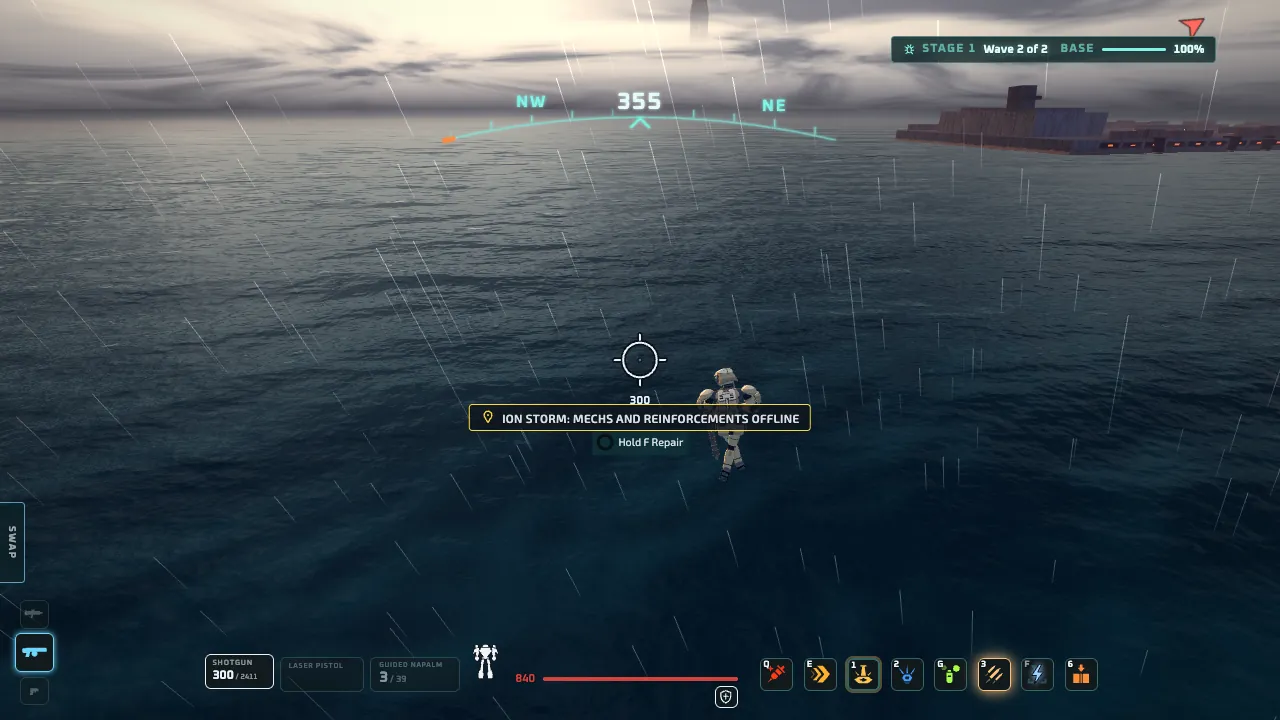
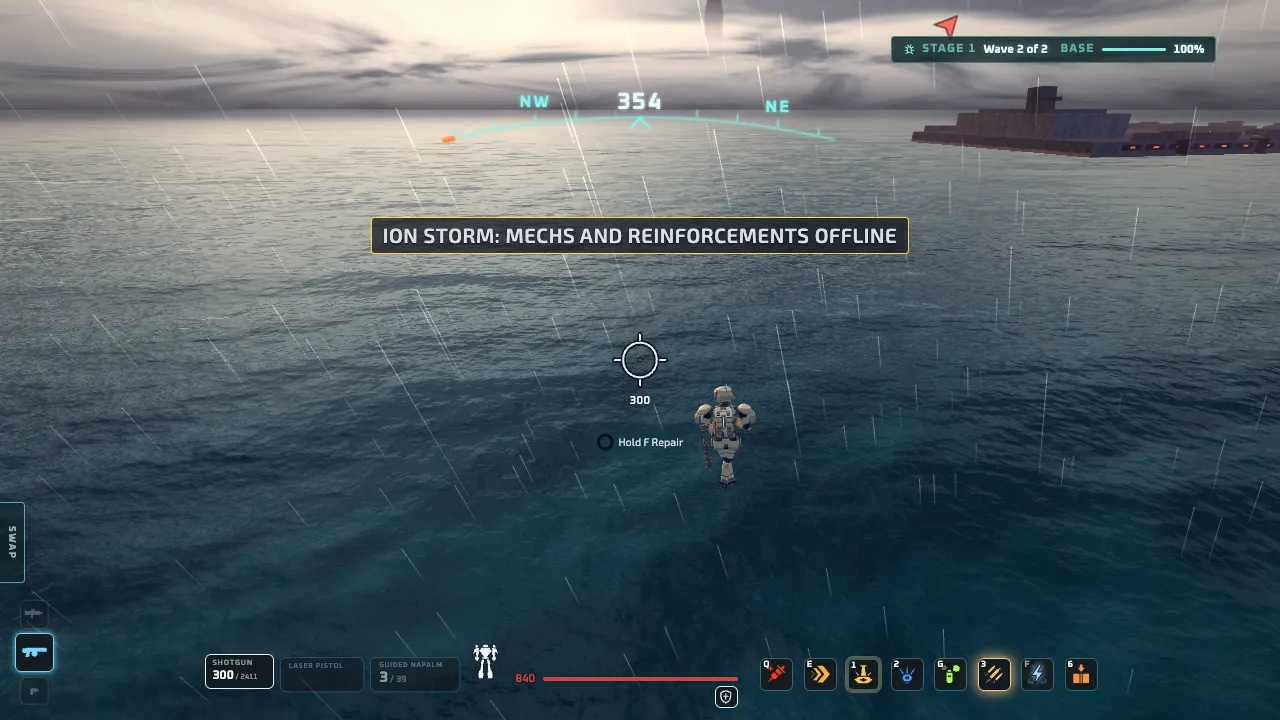
review page v251: Steel Tide: to review

diff --git a/d/steel-tide-clips-bb00109a/index.html b/d/steel-tide-clips-bb00109a/index.html
@@ -4,15 +4,15 @@
 <style>body{margin:0;background:#0d1117;color:#e6edf3;font:16px/1.5 -apple-system,system-ui,sans-serif}main{max-width:900px;margin:0 auto;padding:16px}h1{font-size:20px;margin:8px 0 4px}h2{font-size:17px;margin:34px 0 6px}p{margin:4px 0 10px;color:#9da7b3;font-size:14px}video,img{width:100%;height:auto;background:#000;border-radius:6px;display:block;margin-top:6px}a.b{display:inline-block;margin:8px 8px 0 0;padding:10px 14px;border:1px solid #3d444d;border-radius:6px;color:#e6edf3;text-decoration:none;font-size:14px}.t{font-size:12px;font-weight:400;color:#0d1117;background:#9da7b3;border-radius:10px;padding:2px 8px;margin-left:6px;vertical-align:middle}p.d{color:#7cb7ff;font-size:13px;margin:0 0 6px}nav small{color:#9da7b3;margin-left:6px}p b{color:#e6edf3}nav a{display:block;padding:7px 0;color:#7cb7ff;text-decoration:none;font-size:14px;border-bottom:1px solid #21262d}a.z{display:block;cursor:zoom-in}p.h{font-size:12px;margin:2px 0 8px}#lb{position:fixed;inset:0;background:#000;z-index:9;overflow:auto;display:none;cursor:zoom-in}#lb.on{display:block}#lb img{width:100%;height:100%;object-fit:contain;margin:0;border-radius:0;background:#000}#lb.big{cursor:zoom-out}#lb.big img{width:auto;height:auto;max-width:none;object-fit:none}#lbx{position:fixed;top:10px;right:14px;z-index:10;display:none;font:600 15px system-ui;color:#fff;background:#21262d;border:1px solid #3d444d;border-radius:6px;padding:8px 12px;cursor:pointer}#lb.on+#lbx{display:block}</style></head>
 <body><style>.tabs{display:flex;gap:8px;padding:12px 16px;border-bottom:1px solid #30363d;background:#151b23;flex-wrap:wrap}.tabs a{padding:8px 14px;border:1px solid #444c56;border-radius:6px;color:#b4bec9;text-decoration:none;font-size:14px;font-weight:600}.tabs a.on{background:#1c232d;color:#e6edf3;border-color:#7cb7ff}</style><div class="tabs"><a class="on" href="./">To review</a><a href="guide.html">Game dev guide</a></div><main>
 <h1>Steel Tide: to review</h1>
-<p>Version 250, 11-22 10:49 AM. New: the storm sign, and stills of five things that went live overnight (hand cannon blast, blink, guard drones, enemy modifiers, storm exit). Blowing sand round 4 clips are at the top. Newest first. Total 32.8 MB.</p>
-<nav><a href="#storm-sign">Ion storm sign: mechs and reinforcements offline <small>11-22 12:10 PM</small></a><a href="#sand-wind-real-walking">Blowing sand, redone: walking on foot <small>11-22 10:20 AM</small></a><a href="#sand-wind-real-orbit">Blowing sand, redone: full turn around the mech <small>11-22 10:20 AM</small></a><a href="#sand-wind-real-low">Blowing sand, redone: low view down the wind <small>11-22 10:20 AM</small></a><a href="#desert-subtle-roll">Desert floor: a subtle rolling curve <small>11-22 10:20 AM</small></a><a href="#results-screen-mockups">NEEDS YOUR OK: results screen C, revision 5 <small>11-22 10:20 AM</small></a><a href="#hangar-forge">The Forge: a crafting station in the hangar <small>11-22 10:20 AM</small></a><a href="#convoy-freight-train">Convoy escort: the freight train replaces the black stand-in <small>11-22 9:10 AM</small></a><a href="#enemy-modifiers">Enemy modifiers: a barrage attack <small>11-22 8:05 AM</small></a><a href="#storm-exit-wave-runner">Storm exit: thrown beacon to the Wave Runner <small>11-22 7:10 AM</small></a><a href="#vehicle-guard-drones">Guard drones on the Land Rover and Wave Runner <small>11-22 6:45 AM</small></a><a href="#hand-cannon-blast">Hand cannon impact blast <small>11-22 5:40 AM</small></a><a href="#pilot-blink">Pilot blink dash <small>11-22 5:30 AM</small></a><a href="#petrel-refine-r4">Petrel ship: polish round 4 (rounder, smoother) <small>11-22 4:25 AM</small></a><a href="#lift-passing-lights">Elevator lights light the Petrel as it rises <small>11-22 12:40 AM</small></a><a href="#jet-flames-visor">Mech jet flames match your visor color <small>11-22 12:35 AM</small></a><a href="#weapon-icons-round-3">Weapon icons: style A in the game <small>11-21 10:10 PM</small></a><a href="#pilot-gun-clipping">Pilot: carried gun and arms no longer cut into the body (before / after) <small>11-21 10:05 PM</small></a><a href="#hangar-one-petrel">Only your Petrel in the hangar <small>11-21 9:40 PM</small></a><a href="#navy-shell-arc">Navy shells fly one smooth arc <small>11-21 8:37 PM</small></a><a href="#hangar-mech-feet">Hangar mech stands on its cradle <small>11-21 8:37 PM</small></a><a href="#dock-scene-ease">Docking: camera, Petrel glide and lift light <small>11-21 8:37 PM</small></a><a href="#desert-r20-m337-sky">Desert: our sand under yesterday&#x27;s sky <small>11-21 8:37 PM</small></a><a href="#extraction-outro-live">Extraction ending, full outro (live build) <small>11-21 6:35 PM</small></a><a href="#no-black-preload">Mission start: no black screen before the flight <small>11-21 5:05 PM</small></a><a href="#sand-impacts">Desert: shots, landings and footsteps throw up sand <small>11-21 4:55 PM</small></a><a href="#ocean-navy">Ocean navy: fewer, heavier ships; lobbed shells you can see; hull explosions; torpedo wakes <small>11-21 4:47 PM</small></a><a href="#sand-repo-demo">The open-source dune scene we are porting, as it looks in its own demo <small>11-21 4:42 PM</small></a><a href="#roll-chevrons-removed">Old roll and floor dashes removed <small>11-21 2:53 PM</small></a><a href="#unit-ground-shadows">Unit ground shadows back on <small>11-21 1:02 PM</small></a><a href="#pilot-walk-sway">Pilot walk: half the side-to-side sway (before / after) <small>11-21 12:44 PM</small></a><a href="#boss-shading-which-part">Your 8:00 PM report: which part of the boss looked wrong? <small>11-20 10:51 PM</small></a><a href="#new-mech-3d-r2">New mech: first 3D model from your sheet <small>11-19 11:21 PM</small></a><a href="#tactician-r2-s302-clean">Tactician pilot: your pick, smudges cleaned (ready to wire) <small>11-19 10:24 PM</small></a><a href="#vanguard-r2-s302">Vanguard pilot: your pick, six fingers fixed (ready to wire) <small>11-19 10:24 PM</small></a><a href="#cradle-drop-launch-r4">NEEDS YOUR PICK: the drop cannon&#x27;s size on the Cradle (three sizes), with its back hidden and navy colour <small>11-18 7:43 PM</small></a><a href="#horde-pilot-zoom">NEEDS YOUR CALL: island Horde, camera zooms in when you are on foot <small>11-17 1:30 PM</small></a></nav>
-<section id="storm-sign"><h2>Ion storm sign: mechs and reinforcements offline <span class="t">in review</span></h2>
-<p class="d">Updated 11-22 12:10 PM ET &middot; captured from lane build 413d40f337</p>
-<p><b>What changed:</b> New: your approved line shows on the existing notice plate from the moment the storm takes the mech until extraction ends.</p>
-<p><b>Where to look:</b> Centre of the frame, the yellow-edged plate just under the reticle. It sits across the pilot&#x27;s shoulders, above the Hold F Repair prompt.</p>
+<p>Version 251, 11-22 11:44 AM. New: the storm sign moved to the top of the screen. Live now (M441): blowing sand round 4 with puffs off, and the convoy train. Newest first. Total 32.8 MB.</p>
+<nav><a href="#storm-sign">Ion storm sign: mechs and reinforcements offline <small>11-22 2:40 PM</small></a><a href="#sand-wind-real-walking">Blowing sand, redone: walking on foot <small>11-22 11:44 AM</small></a><a href="#sand-wind-real-orbit">Blowing sand, redone: full turn around the mech <small>11-22 11:44 AM</small></a><a href="#sand-wind-real-low">Blowing sand, redone: low view down the wind <small>11-22 11:44 AM</small></a><a href="#convoy-freight-train">Convoy escort: the freight train replaces the black stand-in <small>11-22 11:44 AM</small></a><a href="#desert-subtle-roll">Desert floor: a subtle rolling curve <small>11-22 10:20 AM</small></a><a href="#results-screen-mockups">NEEDS YOUR OK: results screen C, revision 5 <small>11-22 10:20 AM</small></a><a href="#hangar-forge">The Forge: a crafting station in the hangar <small>11-22 10:20 AM</small></a><a href="#enemy-modifiers">Enemy modifiers: a barrage attack <small>11-22 8:05 AM</small></a><a href="#storm-exit-wave-runner">Storm exit: thrown beacon to the Wave Runner <small>11-22 7:10 AM</small></a><a href="#vehicle-guard-drones">Guard drones on the Land Rover and Wave Runner <small>11-22 6:45 AM</small></a><a href="#hand-cannon-blast">Hand cannon impact blast <small>11-22 5:40 AM</small></a><a href="#pilot-blink">Pilot blink dash <small>11-22 5:30 AM</small></a><a href="#petrel-refine-r4">Petrel ship: polish round 4 (rounder, smoother) <small>11-22 4:25 AM</small></a><a href="#lift-passing-lights">Elevator lights light the Petrel as it rises <small>11-22 12:40 AM</small></a><a href="#jet-flames-visor">Mech jet flames match your visor color <small>11-22 12:35 AM</small></a><a href="#weapon-icons-round-3">Weapon icons: style A in the game <small>11-21 10:10 PM</small></a><a href="#pilot-gun-clipping">Pilot: carried gun and arms no longer cut into the body (before / after) <small>11-21 10:05 PM</small></a><a href="#hangar-one-petrel">Only your Petrel in the hangar <small>11-21 9:40 PM</small></a><a href="#navy-shell-arc">Navy shells fly one smooth arc <small>11-21 8:37 PM</small></a><a href="#hangar-mech-feet">Hangar mech stands on its cradle <small>11-21 8:37 PM</small></a><a href="#dock-scene-ease">Docking: camera, Petrel glide and lift light <small>11-21 8:37 PM</small></a><a href="#desert-r20-m337-sky">Desert: our sand under yesterday&#x27;s sky <small>11-21 8:37 PM</small></a><a href="#extraction-outro-live">Extraction ending, full outro (live build) <small>11-21 6:35 PM</small></a><a href="#no-black-preload">Mission start: no black screen before the flight <small>11-21 5:05 PM</small></a><a href="#sand-impacts">Desert: shots, landings and footsteps throw up sand <small>11-21 4:55 PM</small></a><a href="#ocean-navy">Ocean navy: fewer, heavier ships; lobbed shells you can see; hull explosions; torpedo wakes <small>11-21 4:47 PM</small></a><a href="#sand-repo-demo">The open-source dune scene we are porting, as it looks in its own demo <small>11-21 4:42 PM</small></a><a href="#roll-chevrons-removed">Old roll and floor dashes removed <small>11-21 2:53 PM</small></a><a href="#unit-ground-shadows">Unit ground shadows back on <small>11-21 1:02 PM</small></a><a href="#pilot-walk-sway">Pilot walk: half the side-to-side sway (before / after) <small>11-21 12:44 PM</small></a><a href="#boss-shading-which-part">Your 8:00 PM report: which part of the boss looked wrong? <small>11-20 10:51 PM</small></a><a href="#new-mech-3d-r2">New mech: first 3D model from your sheet <small>11-19 11:21 PM</small></a><a href="#tactician-r2-s302-clean">Tactician pilot: your pick, smudges cleaned (ready to wire) <small>11-19 10:24 PM</small></a><a href="#vanguard-r2-s302">Vanguard pilot: your pick, six fingers fixed (ready to wire) <small>11-19 10:24 PM</small></a><a href="#cradle-drop-launch-r4">NEEDS YOUR PICK: the drop cannon&#x27;s size on the Cradle (three sizes), with its back hidden and navy colour <small>11-18 7:43 PM</small></a><a href="#horde-pilot-zoom">NEEDS YOUR CALL: island Horde, camera zooms in when you are on foot <small>11-17 1:30 PM</small></a></nav>
+<section id="storm-sign"><h2>Ion storm sign: mechs and reinforcements offline <span class="t">in review (moved; not live)</span></h2>
+<p class="d">Updated 11-22 2:40 PM ET &middot; captured from lane build de2961aef5</p>
+<p><b>What changed:</b> Moved after your note: the sign now sits at the top centre under the compass, on the existing objective banner, instead of mid-screen over the pilot. It also shows from the moment reinforcements are first refused.</p>
+<p><b>Where to look:</b> Top third of the frame, under the compass heading. Check it against the reticle, the pilot and the Hold F Repair prompt below it.</p>
 <a class="z" href="storm-sign-1-full.webp"><img loading="lazy" src="storm-sign-1.webp" alt="Ion storm sign: mechs and reinforcements offline"></a><p class="h">Click the image for full screen, click again for full size.</p></section>
-<section id="sand-wind-real-walking"><h2>Blowing sand, redone: walking on foot <span class="t">in review</span></h2>
-<p class="d">Updated 11-22 10:20 AM ET &middot; captured from lane build b2955101a2 (round 4, Viewer export)</p>
+<section id="sand-wind-real-walking"><h2>Blowing sand, redone: walking on foot <span class="t">live M441 (puffs off by default)</span></h2>
+<p class="d">Updated 11-22 11:44 AM ET &middot; captured from lane build b2955101a2 (round 4, Viewer export)</p>
 <p><b>What changed:</b> Round 4: the sand streamers were too faint, so they now keep running between gusts, are paler than the ground with a soft shade under them, and gusts last longer.</p>
 <p><b>Where to look:</b> Clip: streamers across the slope around the pilot the whole way, strongest from 0 to 4 s. Stills: BEFORE on top, AFTER below, on foot and at the mech camera, at gust peak, mid gust and lull.</p>
 <a class="z" href="sand-wind-real-walking-1-full.webp"><img loading="lazy" src="sand-wind-real-walking-1.webp" alt="Blowing sand, redone: walking on foot"></a><p class="h">Click the image for full screen, click again for full size.</p>
@@ -20,20 +20,28 @@
 <video controls playsinline muted preload="none" poster="sand-wind-real-walking-1.webp" data-fb="sand-wind-real-walking"><source src="sand-wind-real-walking.mp4" type="video/mp4"></video>
 <div class="fb" data-id="sand-wind-real-walking" data-title="Blowing sand, redone: walking on foot"><p class="h">Pause the video at any moment to write a note for that second.</p><div class="fbbox" hidden><b class="fbt"></b><textarea rows="3" placeholder="Your feedback at this moment"></textarea><button class="fbsave">Save and keep playing</button><button class="fbcancel">Cancel</button></div><ol class="fblist"></ol><button class="fbexp">Export feedback</button><div class="fbout" hidden><textarea rows="8" readonly></textarea><button class="fbcopy">Copy</button><span class="fbok"></span></div></div>
 <a class="b" href="sand-wind-real-walking.mp4">Open the video on its own (1.3 MB)</a></section>
-<section id="sand-wind-real-orbit"><h2>Blowing sand, redone: full turn around the mech <span class="t">in review</span></h2>
-<p class="d">Updated 11-22 10:20 AM ET &middot; captured from lane build b2955101a2 (round 4, Viewer export)</p>
+<section id="sand-wind-real-orbit"><h2>Blowing sand, redone: full turn around the mech <span class="t">live M441 (puffs off by default)</span></h2>
+<p class="d">Updated 11-22 11:44 AM ET &middot; captured from lane build b2955101a2 (round 4, Viewer export)</p>
 <p><b>What changed:</b> The camera makes one full turn around the mech and never turns back; the sand stays fixed to the ground instead of moving with the camera.</p>
 <p><b>Where to look:</b> Watch the pale streamers and the spray off the dune crest (5 to 9 s): they stay in place on the ground while the camera turns.</p>
 <video controls playsinline muted preload="none" data-fb="sand-wind-real-orbit"><source src="sand-wind-real-orbit.mp4" type="video/mp4"></video>
 <div class="fb" data-id="sand-wind-real-orbit" data-title="Blowing sand, redone: full turn around the mech"><p class="h">Pause the video at any moment to write a note for that second.</p><div class="fbbox" hidden><b class="fbt"></b><textarea rows="3" placeholder="Your feedback at this moment"></textarea><button class="fbsave">Save and keep playing</button><button class="fbcancel">Cancel</button></div><ol class="fblist"></ol><button class="fbexp">Export feedback</button><div class="fbout" hidden><textarea rows="8" readonly></textarea><button class="fbcopy">Copy</button><span class="fbok"></span></div></div>
 <a class="b" href="sand-wind-real-orbit.mp4">Open the video on its own (1.8 MB)</a></section>
-<section id="sand-wind-real-low"><h2>Blowing sand, redone: low view down the wind <span class="t">in review</span></h2>
-<p class="d">Updated 11-22 10:20 AM ET &middot; captured from lane build b2955101a2 (round 4, Viewer export)</p>
+<section id="sand-wind-real-low"><h2>Blowing sand, redone: low view down the wind <span class="t">live M441 (puffs off by default)</span></h2>
+<p class="d">Updated 11-22 11:44 AM ET &middot; captured from lane build b2955101a2 (round 4, Viewer export)</p>
 <p><b>What changed:</b> New low shot looking along the wind; strands now snake and vary in length so they do not read as straight lines toward one point.</p>
 <p><b>Where to look:</b> The ground in the lower half of the frame and the pale spray line along the ridge behind the pilot.</p>
 <video controls playsinline muted preload="none" data-fb="sand-wind-real-low"><source src="sand-wind-real-low.mp4" type="video/mp4"></video>
 <div class="fb" data-id="sand-wind-real-low" data-title="Blowing sand, redone: low view down the wind"><p class="h">Pause the video at any moment to write a note for that second.</p><div class="fbbox" hidden><b class="fbt"></b><textarea rows="3" placeholder="Your feedback at this moment"></textarea><button class="fbsave">Save and keep playing</button><button class="fbcancel">Cancel</button></div><ol class="fblist"></ol><button class="fbexp">Export feedback</button><div class="fbout" hidden><textarea rows="8" readonly></textarea><button class="fbcopy">Copy</button><span class="fbok"></span></div></div>
 <a class="b" href="sand-wind-real-low.mp4">Open the video on its own (0.7 MB)</a></section>
+<section id="convoy-freight-train"><h2>Convoy escort: the freight train replaces the black stand-in <span class="t">live M441</span></h2>
+<p class="d">Updated 11-22 11:44 AM ET &middot; captured from lane builds 80367e890d and 9515d3f0a0</p>
+<p><b>What changed:</b> The convoy is now a tractor pulling three tank cars instead of a black box. The last still shows the health bar lowered to sit over the cab (that part is in review, not live yet).</p>
+<p><b>Where to look:</b> First still BEFORE (black box), second AFTER (same camera). Third: size beside the mech. Fourth: the health bar just above the tractor cab.</p>
+<a class="z" href="convoy-freight-train-1-full.webp"><img loading="lazy" src="convoy-freight-train-1.webp" alt="Convoy escort: the freight train replaces the black stand-in"></a><p class="h">Click the image for full screen, click again for full size.</p>
+<a class="z" href="convoy-freight-train-2-full.webp"><img loading="lazy" src="convoy-freight-train-2.webp" alt="Convoy escort: the freight train replaces the black stand-in"></a><p class="h">Click the image for full screen, click again for full size.</p>
+<a class="z" href="convoy-freight-train-3-full.webp"><img loading="lazy" src="convoy-freight-train-3.webp" alt="Convoy escort: the freight train replaces the black stand-in"></a><p class="h">Click the image for full screen, click again for full size.</p>
+<a class="z" href="convoy-freight-train-4-full.webp"><img loading="lazy" src="convoy-freight-train-4.webp" alt="Convoy escort: the freight train replaces the black stand-in"></a><p class="h">Click the image for full screen, click again for full size.</p></section>
 <section id="desert-subtle-roll"><h2>Desert floor: a subtle rolling curve <span class="t">live M433</span></h2>
 <p class="d">Updated 11-22 10:20 AM ET &middot; captured from lane build 7797815e19</p>
 <p><b>What changed:</b> Not good enough yet. Round 1 failed review (the curve could not be seen at pilot height). Round 2 made the roll about three times taller, but in its own pictures the ground still reads nearly flat, so it is not shipping. The flat building pads and the no-steep-slopes limit cap how tall the roll can be; the next pass has to make the relief read through light and shadow at pilot height.</p>
@@ -53,14 +61,6 @@
 <a class="z" href="hangar-forge-2-full.webp"><img loading="lazy" src="hangar-forge-2.webp" alt="The Forge: a crafting station in the hangar"></a><p class="h">Click the image for full screen, click again for full size.</p>
 <a class="z" href="hangar-forge-3-full.webp"><img loading="lazy" src="hangar-forge-3.webp" alt="The Forge: a crafting station in the hangar"></a><p class="h">Click the image for full screen, click again for full size.</p>
 <a class="z" href="hangar-forge-4-full.webp"><img loading="lazy" src="hangar-forge-4.webp" alt="The Forge: a crafting station in the hangar"></a><p class="h">Click the image for full screen, click again for full size.</p></section>
-<section id="convoy-freight-train"><h2>Convoy escort: the freight train replaces the black stand-in <span class="t">live M439</span></h2>
-<p class="d">Updated 11-22 9:10 AM ET &middot; captured from lane builds 80367e890d and 9515d3f0a0</p>
-<p><b>What changed:</b> The convoy is now a tractor pulling three tank cars instead of a black box. The last still shows the health bar lowered to sit over the cab (that part is in review, not live yet).</p>
-<p><b>Where to look:</b> First still BEFORE (black box), second AFTER (same camera). Third: size beside the mech. Fourth: the health bar just above the tractor cab.</p>
-<a class="z" href="convoy-freight-train-1-full.webp"><img loading="lazy" src="convoy-freight-train-1.webp" alt="Convoy escort: the freight train replaces the black stand-in"></a><p class="h">Click the image for full screen, click again for full size.</p>
-<a class="z" href="convoy-freight-train-2-full.webp"><img loading="lazy" src="convoy-freight-train-2.webp" alt="Convoy escort: the freight train replaces the black stand-in"></a><p class="h">Click the image for full screen, click again for full size.</p>
-<a class="z" href="convoy-freight-train-3-full.webp"><img loading="lazy" src="convoy-freight-train-3.webp" alt="Convoy escort: the freight train replaces the black stand-in"></a><p class="h">Click the image for full screen, click again for full size.</p>
-<a class="z" href="convoy-freight-train-4-full.webp"><img loading="lazy" src="convoy-freight-train-4.webp" alt="Convoy escort: the freight train replaces the black stand-in"></a><p class="h">Click the image for full screen, click again for full size.</p></section>
 <section id="enemy-modifiers"><h2>Enemy modifiers: a barrage attack <span class="t">live M435 (switch off; being turned on)</span></h2>
 <p class="d">Updated 11-22 8:05 AM ET &middot; captured from lane build c118399853</p>
 <p><b>What changed:</b> One of the eight weapon modifiers, Barrage, with a frost element: a warning circle on the ground, then shards rain into it. Stills only; no clip.</p>
